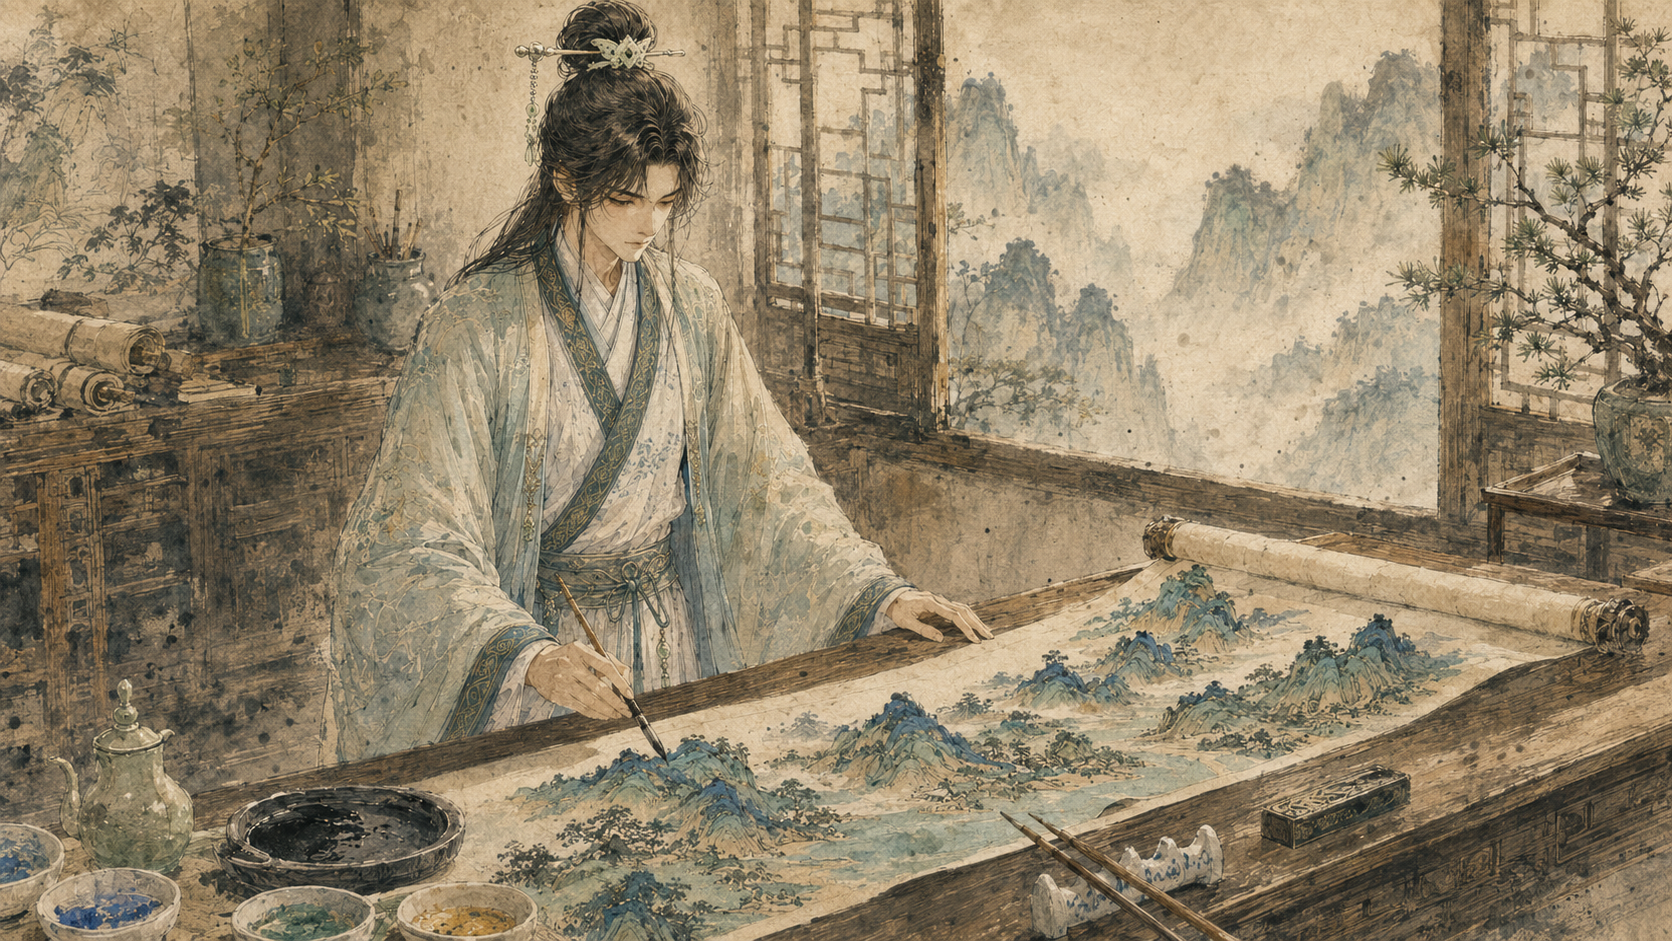
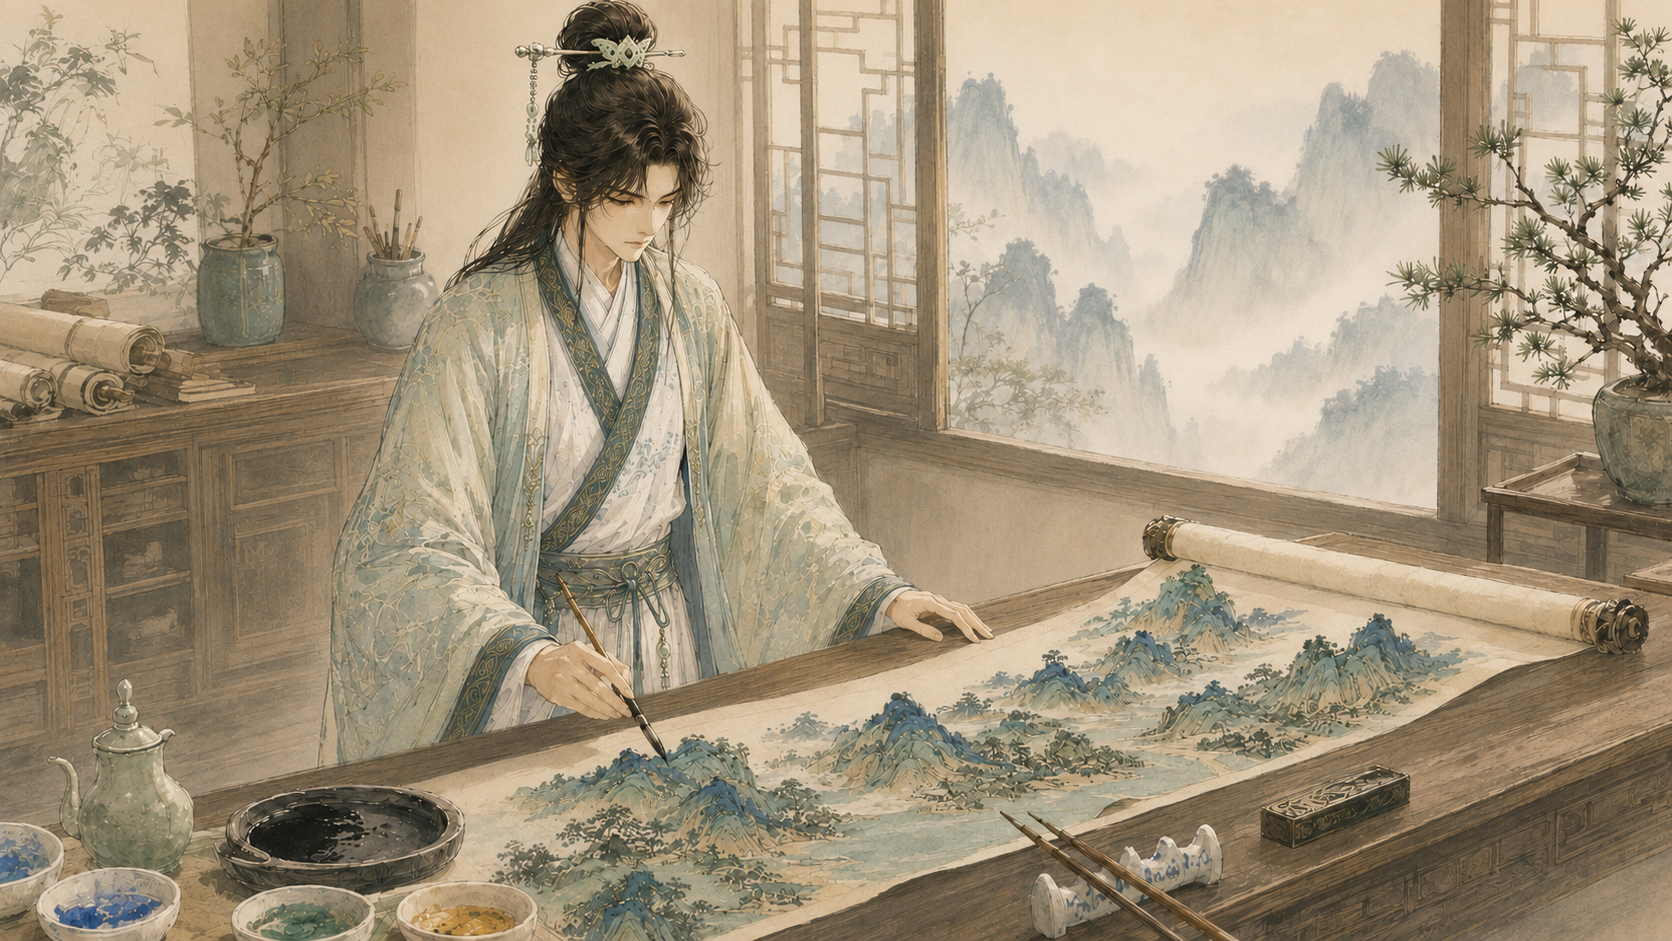
过场小剧场：文字改右上竖排+墨色贴合宣纸(去底部暗幕改右上淡提亮)+希孟作画换新图（2026-07-11 明明）

diff --git a/workspaces/danqingyuan-mvp/src/styles/app.css b/workspaces/danqingyuan-mvp/src/styles/app.css
@@ -5545,15 +5545,11 @@ dd {
   to { opacity: 1; }
 }
 
-/* ——— 每日过场小剧场（2026-07-11 明明）——— */
+/* ——— 每日过场小剧场（2026-07-11 明明；文字右上竖排、墨色贴合宣纸）——— */
 .di-page {
   position: fixed;
   inset: 0;
   overflow: hidden;
-  display: flex;
-  flex-direction: column;
-  align-items: center;
-  justify-content: flex-end;
   background: #0b0a08;
   cursor: pointer;
 }
@@ -5568,15 +5564,15 @@ dd {
   animation: ccFadeIn 1400ms ease both, diKenBurns 20s ease-out both;
 }
 
-/* 底部暗幕：抬起文字可读性；顶部极淡压角放"第N日"小字 */
+/* 极淡右上提亮 + 四角轻压：托起右上竖排墨字，又不压掉宣纸质感 */
 .di-scrim {
   position: absolute;
   inset: 0;
   z-index: 1;
   pointer-events: none;
   background:
-    linear-gradient(0deg, rgba(10, 7, 4, 0.82) 0%, rgba(10, 7, 4, 0.5) 20%, transparent 46%),
-    linear-gradient(180deg, rgba(10, 7, 4, 0.4) 0%, transparent 18%);
+    radial-gradient(78% 64% at 84% 24%, rgba(247, 241, 224, 0.5) 0%, transparent 60%),
+    radial-gradient(130% 100% at 50% 50%, transparent 66%, rgba(20, 14, 8, 0.2) 100%);
 }
 
 .di-day {
@@ -5586,50 +5582,54 @@ dd {
   z-index: 2;
   font-size: 14px;
   letter-spacing: 0.28em;
-  color: rgba(240, 230, 208, 0.82);
-  text-shadow: 0 2px 8px rgba(10, 7, 4, 0.9);
+  color: rgba(70, 52, 34, 0.75);
+  text-shadow: 0 1px 4px rgba(247, 241, 224, 0.85);
   animation: ccFadeIn 1200ms ease both;
 }
 
+/* 右上竖排小故事（列右→左） */
 .di-text {
-  position: relative;
+  position: absolute;
+  top: 8vh;
+  right: 5vw;
   z-index: 2;
-  width: min(880px, 88vw);
-  margin-bottom: 12vh;
-  text-align: center;
+  max-height: 78vh;
+  writing-mode: vertical-rl;
 }
 
 .di-line {
-  margin: 0 0 12px;
-  font-size: 20px;
-  line-height: 2;
-  letter-spacing: 0.08em;
-  color: #f3ead2;
-  text-shadow: 0 2px 10px rgba(10, 7, 4, 0.95), 0 0 22px rgba(10, 7, 4, 0.7);
+  margin: 0 0 0 0.9em;
+  font-size: 21px;
+  line-height: 1.95;
+  letter-spacing: 0.14em;
+  color: #3a2c1c;
+  text-shadow: 0 1px 3px rgba(247, 241, 223, 0.92), 0 0 12px rgba(247, 241, 223, 0.7);
+  animation: ccFadeIn 700ms ease both;
 }
 
 .di-caret {
   display: inline-block;
   width: 2px;
   height: 1em;
-  margin-left: 3px;
-  vertical-align: -0.15em;
-  background: #f3ead2;
+  margin-top: 3px;
+  background: #5b3a24;
   animation: epiCaret 760ms step-end infinite;
 }
 
 .di-hint {
   position: absolute;
-  bottom: 40px;
+  bottom: 36px;
+  right: 40px;
   z-index: 2;
   margin: 0;
   font-size: 13px;
   letter-spacing: 0.22em;
-  color: rgba(240, 230, 208, 0.5);
+  color: rgba(70, 52, 34, 0.55);
+  text-shadow: 0 1px 4px rgba(247, 241, 224, 0.7);
 }
 
 .di-hint-in {
-  color: rgba(240, 230, 208, 0.82);
+  color: rgba(70, 52, 34, 0.85);
   animation: prologueHintPulse 2000ms ease-in-out infinite;
 }
 
